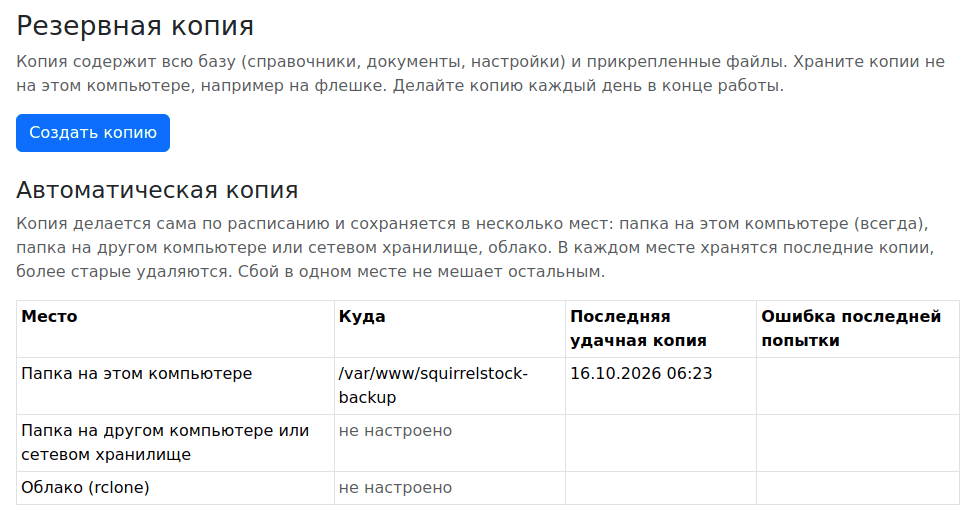
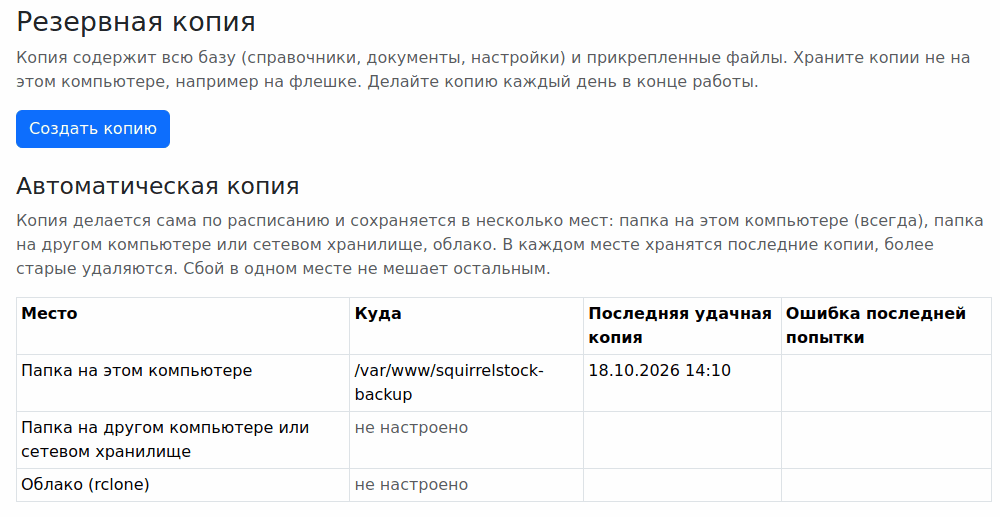
USER_GUIDE checked against the program on the current demo database; screenshots retaken
1C import: the field is "Дата оприходования", the sum of stock matches the ledger to the kopeck. Item turnover: the "Прочее" column. Stock report: print, Excel and PDF icons. Backup: copy to a USB stick from the same page. Sixteen screenshots retaken on the demo database of 18.10 (the main page reminder now also lists small equipment, the restore form has the new password label); profile and two-factor screenshots unchanged.

diff --git a/docs/USER_GUIDE.ru.md b/docs/USER_GUIDE.ru.md
@@ -81,10 +81,10 @@
 
 1. В 1С сохраните оборотно-сальдовую ведомость в Excel (.xls или .xlsx): по счёту 10 (материалы) или по счёту 01 (основные средства).
 2. «Файл импорта» — выберите этот файл.
-3. Проверьте «Склад» и «Дату документа»; для новых позиций можно выбрать категорию.
+3. Проверьте «Склад» и «Дату оприходования» (пусто — дата ведомости, конец её периода); для новых позиций можно выбрать «Категорию для новых позиций».
 4. Нажмите «Импортировать».
 
-Что увидите: по счёту 10 — позиции и остатки по цене «сумма / количество», по счёту 01 — единицы оборудования с инвентарными номерами. Названия остаются как в 1С. Повторный импорт материалов приходует их ещё раз, а единицы с инвентарными номерами не дублирует. Строки, которые программа не смогла однозначно сопоставить, показываются списком и не приходуются: оприходуйте их вручную. Строки с суммой без количества (обычно остаток округления в 1С) не переносятся и тоже показываются отдельной таблицей с итогом.
+Что увидите: по счёту 10 — позиции и остатки по цене «сумма / количество» (сумма остатков совпадает с ведомостью до копейки — настройка «Цена партии», [GUIDE.ru.md](GUIDE.ru.md)), по счёту 01 — единицы оборудования с инвентарными номерами. Названия остаются как в 1С. Повторный импорт материалов приходует их ещё раз, а единицы с инвентарными номерами не дублирует. Строки, которые программа не смогла однозначно сопоставить, показываются списком и не приходуются: оприходуйте их вручную. Строки с суммой без количества (обычно остаток округления в 1С) не переносятся и тоже показываются отдельной таблицей с итогом.
 
 ![Импорт ведомости 1С](img/import-1c.png)
 
@@ -98,7 +98,7 @@
 2. При необходимости выберите «Категорию».
 3. Нажмите «OK».
 
-Что увидите: по каждой позиции — на начало, приход, «Выдано», «Возвращено», «Списано», на конец и число выдач.
+Что увидите: по каждой позиции — на начало, приход, «Выдано», «Возвращено», «Списано», «Прочее» (перемещения между складами, инвентаризация), на конец и число выдач.
 
 ### 6.2. Сколько выдано одному подопечному
 
@@ -140,7 +140,7 @@
 
 ### 6.4. Какой остаток
 
-Меню: **Отчеты → Склад → Состояние складов**, кнопка «OK». По каждой позиции — количество на каждом складе.
+Меню: **Отчеты → Склад → Состояние складов**, кнопка «OK». По каждой позиции — количество на каждом складе. Значки над таблицей: печать, Excel и PDF.
 
 ![Состояние складов](img/store-items.png)
 
@@ -188,7 +188,7 @@
 
 1. На главной странице нет красного сообщения «Нет удачной резервной копии больше 48 ч» (его видит администратор).
 2. На странице «Резервная копия» в таблице «Автоматическая копия» у каждого места свежая дата в «Последняя удачная копия» и пусто в «Ошибка последней попытки».
-3. В конце рабочего дня сделайте копию вручную: «Создать копию» — скачается zip-файл. Храните его не на этом компьютере, например на флешке.
+3. В конце рабочего дня сделайте копию вручную: «Создать копию» — скачается zip-файл. Храните его не на этом компьютере, например на флешке. Если программа работает на этом же компьютере, копию можно записать на флешку сразу: вставьте флешку, в блоке «Копия на флешку» в поле «Папка или диск» укажите её букву (например, `E:\`) и нажмите «Скопировать туда» — появится «Копия сохранена: …».
 
 ![Резервная копия: кнопка «Создать копию» и таблица автоматических копий](img/backup.png)
 
